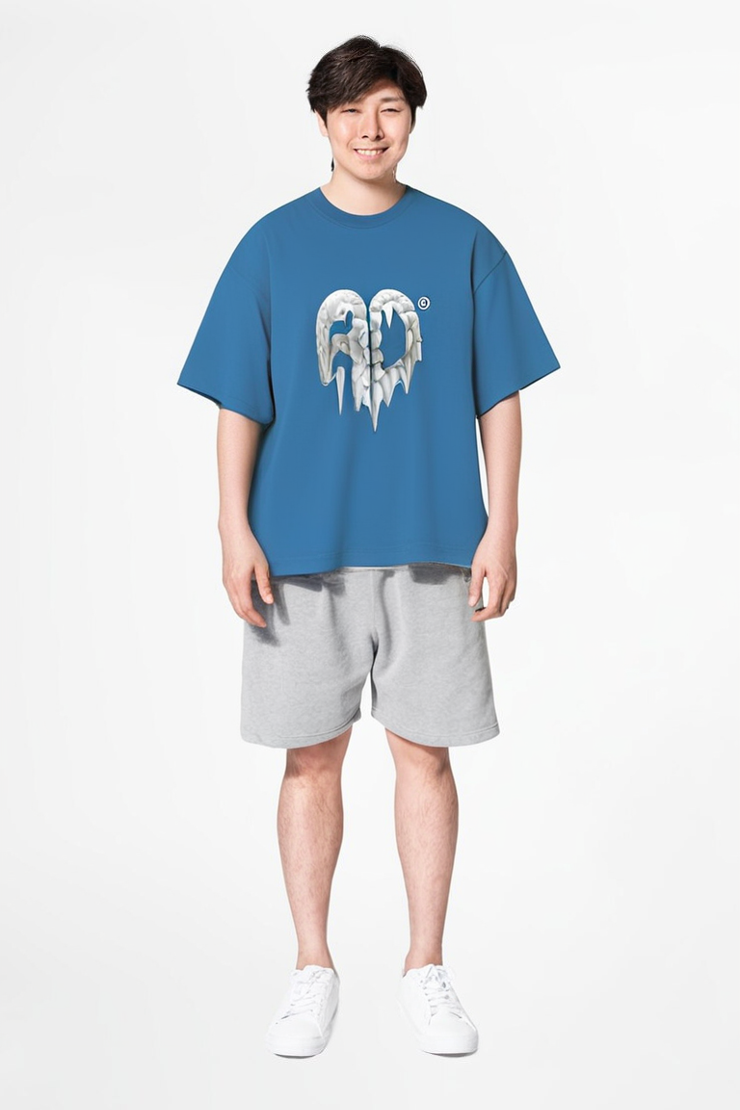
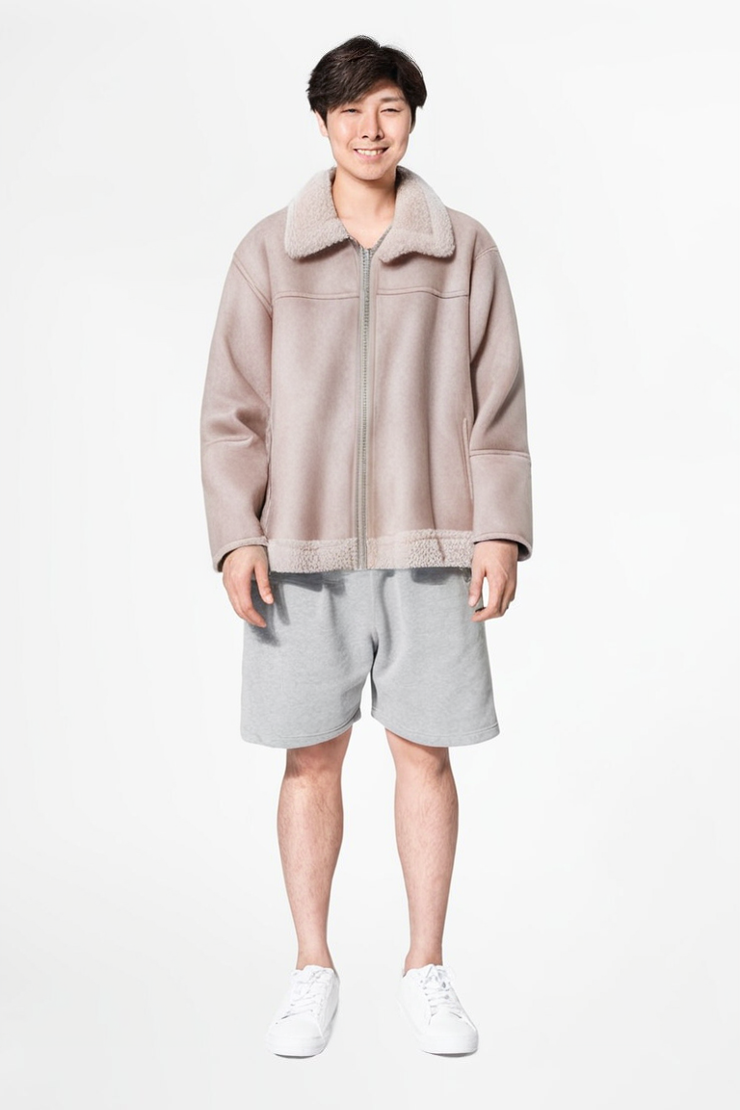
designer VTON 추가 : 테스트 전

Changed region(s): [[0.2486, 0.1532, 0.777, 0.5207]]

diff --git a/templates/vton_design.html b/templates/vton_design.html
@@ -55,19 +55,45 @@
             <form id="image-upload-form">
                 <!-- 사용자 이미지 업로드 -->
                 <label for="user-image-upload" class="upload-button">모델 이미지 업로드</label>
-                <input type="file" id="user-image-upload" accept="image/*" hidden>
-
-                <!-- 상품 이미지 업로드 -->
-                <label for="product-image-upload" class="upload-button">상품 이미지 업로드</label>
-                <input type="file" id="product-image-upload" accept="image/*" hidden>
+                <input type="file" id="user-image-upload" accept="image/*" hidden required>
             </form>
 
             <p></p>
-            <button>시착 결과 보기</button>
+            <button onclick="vton_request('{{type}}', '{{product_img_path}}', '{{pid}}')">시착 결과 보기</button>
         </section>
     </main>
 
     <!-- Footer -->
     <div id="footer-placeholder"></div>
+
+    <script>
+        function vton_request(type, product_img_path, pid){
+            const formData = new FormData();
+            const imageFile = document.getElementById('user-image-upload').files[0];
+            const data = {
+                type : type,
+                product_img_path : product_img_path,
+                pid : pid
+            }
+            const jsonData = JSON.stringify(data);
+            formData.append('model_image', imageFile); 
+            formData.append('data', jsonData)
+            fetch("http://127.0.0.1:5000", {
+                method : "POST",
+                body: formData
+            })
+            .then(response => {
+                if (response.redirected) {
+                    window.location.href = response.url;
+                } else {
+                    return response.text();
+                }
+            })
+            .then(data => {
+                console.log("Response Data:", data);
+            })
+            .catch(error => console.error("Error:", error));
+                    }
+    </script>
 </body>
 </html>

diff --git a/templates/category.html b/templates/category.html
@@ -37,9 +37,8 @@
             <div class="top-product" onclick="window.location.href='/product_detail?pid={{pid}}'">
                 <img src="{{products[pid]['img_path']}}" class="top-product-image">
                 <h3 class="top-product-title">{{products[pid]["product_name"]}}</h3>
-                <!-- <div class="top-product-rating">
-                    ★★★☆☆ <span>{{products[pid]["rating"]}}/5</span>
-                </div> -->
+
+                {% if user_type != "Designer" %}
                 <div class="top-product-rating">
                     <!-- 별 개수 표시 -->
                     {% set rating = products[pid]["rating"]|int %}
@@ -52,8 +51,10 @@
                     {% endfor %}
                     <span>{{ products[pid]["rating"] }}/5</span>
                 </div>
-                
+
                 <p class="top-product-price">{{products[pid]["discounted_price"]}}원</p>
+                {% endif %}
+                
                 <button class="top-virtual-try-on">Virtual Try On</button>
             </div>
         {% endfor %}

diff --git a/templates/vton1.html b/templates/vton1.html
@@ -65,21 +65,18 @@
 
     <script>
         function vton_request(type, product_img_path, model_img_path, pid){
-            console.log(type)
-            console.log(product_img_path)
-            console.log(model_img_path)
+            const formData = new FormData();
             const data = {
                 type : type,
                 product_img_path : product_img_path,
                 model_img_path : model_img_path,
                 pid : pid
             }
+            const jsonData = JSON.stringify(data);
+            formData.append('data', jsonData)
             fetch("http://127.0.0.1:5000", {
                 method : "POST",
-                headers: {
-                    "Content-Type" : "application/json"
-                },
-                body: JSON.stringify(data)
+                body: formData
             })
             .then(response => {
                 if (response.redirected) {

diff --git a/templates/index.html b/templates/index.html
@@ -88,11 +88,7 @@
         {% for pid in products %}
             <div class="top-product" onclick="window.location.href='/product_detail?pid={{pid}}'">
                 <img src="{{products[pid]['img_path']}}" class="top-product-image">
-                <h3 class="top-product-title"></h3>
-                <div class="top-product-rating">
-                    ★★★☆☆ <span>{{products[pid]['rating']}}/5</span>
-                </div>
-                <p class="top-product-price">{{products[pid]['discounted_price']}}원</p>
+                <h3 class="top-product-title">{{products[pid]["product_name"]}}</h3>
                 <button class="top-virtual-try-on">Virtual Try On</button>
             </div>
         {% endfor %}

diff --git a/VTON/app.py b/VTON/app.py
@@ -3,6 +3,8 @@ from flask import Flask, render_template, request, redirect, url_for
 from flask_cors import CORS
 from gradio_client import Client as GradioClient, file
 import cv2
+import json
+
 
 # Gradio가 사용할 임시 디렉토리 설정
 os.environ["TMPDIR"] = "static/tmp"
@@ -29,7 +31,7 @@ def get_gradio_client():
     """Gradio Client를 필요할 때만 초기화"""
     global gradio_client
     if gradio_client is None:
-        gradio_client = GradioClient("Nymbo/Virtual-Try-On")
+        gradio_client = GradioClient("yisol/Virtual-Try-On")
     return gradio_client
 
 def call_gradio_api(person_image_path, garment_image_path):
@@ -65,18 +67,21 @@ def call_gradio_api(person_image_path, garment_image_path):
 
 @app.route("/", methods=["POST"])
 def index():
-    data = request.json
+    data = request.form.get('data')
+    data = json.loads(data)  # JSON 문자열을 파싱
     print(data)
-    type = data['type']
+    type = data["type"]
     pid = data['pid']
     # 사용자로부터 업로드된 파일 처리
     if type == "Consumer":
         person_image = "../" + data["model_img_path"]
     elif type == "Designer":
-        person_image_file = data["model_img_path"]
+        person_image_file = request.files['model_image']
         person_image = convert_to_png(person_image_file, "model_img_path.png")
 
     garment_image = "../" + data["product_img_path"]
+
+    
 
     if not person_image or not garment_image:
         return "Both person and garment images are required!", 400

diff --git a/app.py b/app.py
@@ -95,7 +95,7 @@ def category():
     products = "No_products"
   print(products)
 
-  return render_template('category.html', products = products)
+  return render_template('category.html', products = products, user_type = user_type)
 # ======================================
 
 
@@ -423,13 +423,15 @@ def try_on():
   if user.type == "Consumer":
     product_info = Server.get_product_detail(pid)
     model_img_path = user.img_path
+    render_html = "vton1.html"
   elif user.type == "Designer":
     product_info = Server.get_product_detail(pid, did=user.id)
     model_img_path = None
+    render_html = "vton_design.html"
   product_img_path = product_info["img_path"]
   product_name = product_info["product_name"]
   
-  return render_template("vton1.html", user_name = user.name, product_name = product_name, model_img_path=model_img_path, product_img_path=product_img_path, type=user.type, pid=pid)
+  return render_template(render_html, user_name = user.name, product_name = product_name, model_img_path=model_img_path, product_img_path=product_img_path, type=user.type, pid=pid)
 
 @app.route("/upload_img/<string:cid>")        # 회원가입때 이미지를 업로드하지 않은 경우
 def upload_img(cid):
